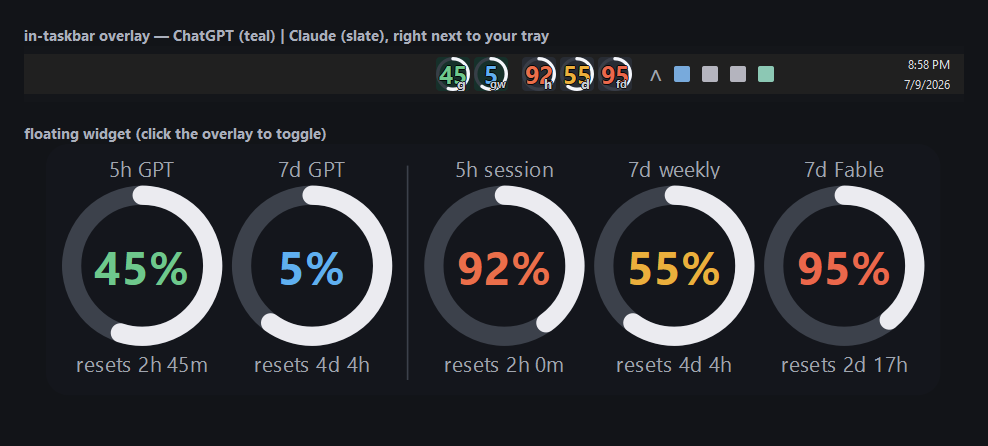
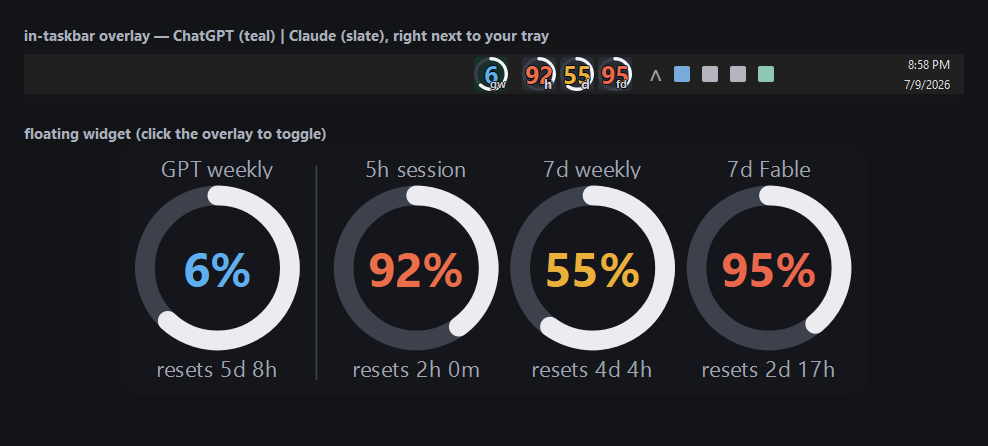
Live ChatGPT usage via free Codex endpoint; drop the GPT 5-hour gauge
Freshness fix: the GPT gauge was only as current as the last Codex run,
so it went stale (or 0%) when using the ChatGPT app. Now poll
GET /backend-api/codex/usage with the token from ~/.codex/auth.json — it
returns the plan's weekly usage as JSON with no completion generated, so
it's live every cycle at zero token cost (a "hello" probe would cost
quota and inflate the very number we measure). Session-log tailing stays
as an offline fallback; reading is cached for restarts.

ChatGPT plans now expose only a weekly cap (primary_window = 604800s,
secondary_window null), so the 5-hour GPT gauge is removed — five tiles
become four (GPT weekly | Claude 5h, 7d, Fable). Hero + timelapse
regenerated; README data-source table and explanation updated.

Changed region(s): [[0.0607, 0.3498, 0.9413, 0.8453], [0.4251, 0.1166, 0.5162, 0.204]]

diff --git a/usagedashboard.py b/usagedashboard.py
@@ -2,12 +2,12 @@
 Always-on Claude Code usage dashboard.
 
 Two surfaces, same visual language:
-  - Five taskbar tiles — OpenAI/ChatGPT (5h, weekly, read from local
-    Codex CLI session logs) then Claude (5h session, 7d weekly, 7d Fable) —
-    with the % in the centre coloured by an urgency model
-    (pct + time_remaining% − 100) and a white perimeter ring that drains
-    as the reset window elapses. Providers are demarcated by tile base
-    colour (slate vs teal), marker letters, and a wider gap.
+  - Four taskbar tiles — OpenAI/ChatGPT (weekly, from the free Codex usage
+    endpoint) then Claude (5h session, 7d weekly, 7d Fable) — with the % in
+    the centre coloured by an urgency model (pct + time_remaining% − 100)
+    and a white perimeter ring that drains as the reset window elapses.
+    Providers are demarcated by tile base colour (slate vs teal), marker
+    letters, and a wider gap.
   - Frameless transparent always-on-top widget mirroring the same ring
     behaviour at a larger size, with reset countdowns and labels.
 
@@ -88,7 +88,7 @@ RED   = QColor(235,  80,  80)   # will exhaust before the window resets
 # Provider demarcation: gauges [:GROUP_SPLIT] are OpenAI, the rest Claude.
 # OpenAI tiles get a teal-dark base (vs Claude's neutral slate) and both
 # surfaces put a wider gap / divider line between the two groups.
-GROUP_SPLIT = 2
+GROUP_SPLIT = 1
 CLAUDE_TILE_BASE = QColor(40, 44, 52)
 OPENAI_TILE_BASE = QColor(22, 48, 42)
 
@@ -307,7 +307,115 @@ def fetch_usage_via_headers(token: str) -> tuple[dict | None, int | None]:
         return None, None
 
 
-CODEX_SESSIONS_DIR = Path.home() / ".codex" / "sessions"
+CODEX_HOME = Path.home() / ".codex"
+CODEX_SESSIONS_DIR = CODEX_HOME / "sessions"
+CODEX_AUTH_PATH = CODEX_HOME / "auth.json"
+CODEX_USAGE_URL = "https://chatgpt.com/backend-api/codex/usage"
+WEEKLY_WINDOW_SECONDS = 7 * 86400
+
+
+def _read_codex_auth() -> tuple[str, str] | None:
+    """(access_token, account_id) from the Codex CLI auth file, or None.
+
+    Codex keeps this token fresh (~10-day lifetime, rotated on use), so we
+    just re-read it each poll rather than running our own refresh.
+    """
+    try:
+        data = json.loads(CODEX_AUTH_PATH.read_text(encoding="utf-8"))
+        tokens = data["tokens"]
+        token = tokens["access_token"]
+        return token, (tokens.get("account_id") or "")
+    except Exception:
+        return None
+
+
+def _pick_weekly_window(windows: list[dict]) -> dict | None:
+    """The weekly meter = the window with the largest limit_window_seconds.
+
+    ChatGPT plans now expose only a weekly cap (primary_window, 604800 s;
+    the old 5-hour secondary is gone), but picking by window length keeps
+    this correct if a shorter window ever reappears.
+    """
+    best = None
+    for w in windows:
+        secs = w.get("limit_window_seconds") or 0
+        if best is None or secs > (best.get("limit_window_seconds") or 0):
+            best = w
+    return best
+
+
+def _window_reading(w: dict) -> tuple[float, str | None, int]:
+    """(used_percent, reset_iso, window_seconds) from a usage window dict."""
+    reset_at = w.get("reset_at")
+    iso = (datetime.fromtimestamp(reset_at, timezone.utc).isoformat()
+           if reset_at else None)
+    win_s = int(w.get("limit_window_seconds") or WEEKLY_WINDOW_SECONDS)
+    return float(w["used_percent"]), iso, win_s
+
+
+def fetch_openai_weekly_live() -> tuple[float, str | None, int] | None:
+    """Live ChatGPT weekly usage via the free Codex usage endpoint.
+
+    GET /backend-api/codex/usage returns the plan rate limit as plain JSON
+    with NO completion generated — zero token cost, unlike a chat probe.
+    Uses the ChatGPT token from auth.json. Returns
+    (used_percent, reset_iso, window_seconds), or None on any failure
+    (offline, token expired, throttled) so the caller can fall back.
+    """
+    auth = _read_codex_auth()
+    if not auth:
+        return None
+    token, account_id = auth
+    try:
+        r = requests.get(
+            CODEX_USAGE_URL,
+            headers={
+                "Authorization": f"Bearer {token}",
+                "chatgpt-account-id": account_id,
+                "originator": "codex_cli_rs",
+                "User-Agent": USER_AGENT,
+            },
+            timeout=10,
+        )
+        if r.status_code != 200:
+            return None
+        rl = (r.json() or {}).get("rate_limit") or {}
+    except Exception:
+        return None
+    windows = [
+        w for key in ("primary_window", "secondary_window")
+        if isinstance((w := rl.get(key)), dict)
+        and w.get("used_percent") is not None
+    ]
+    weekly = _pick_weekly_window(windows)
+    return _window_reading(weekly) if weekly else None
+
+
+def fetch_openai_weekly_from_logs() -> tuple[float, str | None, int] | None:
+    """Offline fallback: derive weekly usage from Codex session logs."""
+    rl = fetch_openai_usage()
+    if not rl:
+        return None
+    windows = []
+    for key in ("primary", "secondary"):
+        b = rl.get(key)
+        if isinstance(b, dict) and b.get("used_percent") is not None:
+            windows.append({
+                "used_percent": b["used_percent"],
+                "limit_window_seconds": (b.get("window_minutes") or 0) * 60,
+                "reset_at": b.get("resets_at"),
+            })
+    weekly = _pick_weekly_window(windows)
+    return _window_reading(weekly) if weekly else None
+
+
+def openai_weekly() -> tuple[float, str | None, int] | None:
+    """(used_percent, reset_iso, window_seconds) for ChatGPT weekly usage.
+
+    Prefers the live endpoint (fresh, free); falls back to the local
+    session logs (only as recent as your last Codex run) when offline.
+    """
+    return fetch_openai_weekly_live() or fetch_openai_weekly_from_logs()
 
 
 def _pick_plan_limit(candidates: list[dict]) -> dict | None:
@@ -510,17 +618,17 @@ class Widget(QWidget):
         # Don't steal focus when shown — otherwise the taskbar overlay gets
         # demoted in the topmost band and the Windows taskbar paints over it.
         self.setAttribute(Qt.WA_ShowWithoutActivating, True)
-        # Min width holds each of the five gauges at ~90px.
-        self.setMinimumSize(QSize(470, 130))
+        # Min width holds each of the four gauges at ~90px.
+        self.setMinimumSize(QSize(390, 130))
 
         self.gauge_5h = RingGauge("5h session")
         self.gauge_7d = RingGauge("7d weekly")
         self.gauge_fable = RingGauge("7d Fable")
-        self.gauge_gpt5h = RingGauge("5h GPT")
-        self.gauge_gptw = RingGauge("7d GPT")
+        self.gauge_gptw = RingGauge("GPT weekly")
         # Paint/taskbar order with per-tile marker; [:GROUP_SPLIT] = OpenAI.
+        # ChatGPT plans expose only a weekly cap now (no 5-hour window).
         self._all_gauges: list[tuple[RingGauge, str]] = [
-            (self.gauge_gpt5h, "g"), (self.gauge_gptw, "gw"),
+            (self.gauge_gptw, "gw"),
             (self.gauge_5h, "h"), (self.gauge_7d, "d"),
             (self.gauge_fable, "fd"),
         ]
@@ -542,9 +650,18 @@ class Widget(QWidget):
             if trf:  # non-zero/non-None => window still open
                 self.gauge_fable.update(cached_fpct, cached_freset, trf)
 
+        # Seed ChatGPT weekly the same way, so a restart shows a value before
+        # the first poll returns.
+        cached_gpct = state.get("gptw_pct")
+        cached_greset = state.get("gptw_resets_at")
+        if cached_gpct is not None and cached_greset:
+            trg = time_remaining_pct(cached_greset, WEEKLY_WINDOW_SECONDS)
+            if trg:
+                self.gauge_gptw.update(cached_gpct, cached_greset, trg)
+
         x = state.get("x")
         y = state.get("y")
-        self.resize(state.get("w", 520), state.get("h", 150))
+        self.resize(state.get("w", 450), state.get("h", 150))
         self._opacity = state.get("opacity", 0.92)
         self.setWindowOpacity(self._opacity)
         if x is not None and y is not None and self._point_on_some_screen(x, y):
@@ -602,8 +719,8 @@ class Widget(QWidget):
         p.setBrush(QBrush(BG_COLOR))
         p.drawRoundedRect(bg, 14, 14)
 
-        # Layout: five gauges side by side (OpenAI pair | Claude trio) with
-        # label area above and a divider line between the provider groups.
+        # Layout: gauges side by side (OpenAI | Claude) with the label area
+        # above and a divider line between the provider groups.
         inner = bg.adjusted(10, 22, -10, -10)
         gauges = [g for g, _ in self._all_gauges]
         gap, group_gap = 6, 14
@@ -633,35 +750,19 @@ class Widget(QWidget):
 
     # --- polling -----------------------------------------------------------
     def _update_openai(self) -> None:
-        """Refresh the two GPT gauges from the local Codex session logs.
+        """Refresh the ChatGPT weekly gauge.
 
-        Free and offline, so it runs every poll regardless of how the
-        Anthropic endpoints are doing.
+        Prefers the free live usage endpoint; falls back to local Codex
+        logs. Free and independent of the Anthropic endpoints, so it runs
+        every poll. Caches the reading so it survives restarts.
         """
-        rl = fetch_openai_usage()
-        if not rl:
+        reading = openai_weekly()
+        if reading is None:
             return
-        now = time.time()
-        for gauge, block in ((self.gauge_gpt5h, rl.get("primary")),
-                             (self.gauge_gptw, rl.get("secondary"))):
-            if not isinstance(block, dict):
-                continue
-            resets_epoch = block.get("resets_at")
-            window_s = (block.get("window_minutes") or 0) * 60
-            if resets_epoch and resets_epoch < now:
-                # The snapshot predates a window reset and Codex hasn't run
-                # since, so nothing has been used in the current window.
-                # (ChatGPT-app usage in the meantime is invisible to us.)
-                gauge.update(0.0, None, None)
-                continue
-            iso = None
-            if resets_epoch:
-                iso = datetime.fromtimestamp(
-                    resets_epoch, timezone.utc).isoformat()
-            gauge.update(
-                block.get("used_percent"), iso,
-                time_remaining_pct(iso, window_s) if window_s else None,
-            )
+        pct, iso, window_s = reading
+        self.gauge_gptw.update(
+            pct, iso, time_remaining_pct(iso, window_s) if window_s else None)
+        self._persist()
 
     def refresh_now(self, manual: bool = False) -> None:
         self._update_openai()
@@ -734,11 +835,9 @@ class Widget(QWidget):
                 tip.append(f"7-day weekly: {pct7:.0f}% — resets in {reset7}")
             if pctf is not None:
                 tip.append(f"7-day Fable: {pctf:.0f}% — resets in {resetf}")
-            for gauge, name in ((self.gauge_gpt5h, "GPT 5-hour"),
-                                (self.gauge_gptw, "GPT weekly")):
-                if gauge.pct is not None:
-                    tip.append(f"{name}: {gauge.pct:.0f}% — resets in "
-                               f"{gauge.reset_label}")
+            if self.gauge_gptw.pct is not None:
+                tip.append(f"GPT weekly: {self.gauge_gptw.pct:.0f}% — resets "
+                           f"in {self.gauge_gptw.reset_label}")
             self.taskbar.setToolTip("\n".join(tip) or "loading…")
         if self.tray_5h is not None:
             self.tray_5h.setIcon(make_tray_icon(pct5, tr5, marker="h"))
@@ -772,11 +871,9 @@ class Widget(QWidget):
         if fable is not None and fable.get("percent") is not None:
             lines.append(f"fable (7d): {fable['percent']}%  "
                          f"resets {fmt_reset(fable.get('resets_at'))}")
-        for gauge, name in ((self.gauge_gpt5h, "gpt (5h)"),
-                            (self.gauge_gptw, "gpt (7d)")):
-            if gauge.pct is not None:
-                lines.append(f"{name}: {gauge.pct:.1f}%  "
-                             f"resets {gauge.reset_label}")
+        if self.gauge_gptw.pct is not None:
+            lines.append(f"gpt (7d): {self.gauge_gptw.pct:.1f}%  "
+                         f"resets {self.gauge_gptw.reset_label}")
         extra = data.get("extra_usage")
         if isinstance(extra, dict) and extra.get("is_enabled"):
             lines.append(f"extra: {extra.get('utilization')}% of "
@@ -807,7 +904,7 @@ class Widget(QWidget):
         # Scroll to resize
         delta = e.angleDelta().y() / 120
         scale = 1.0 + (0.07 * delta)
-        new_w = max(180, min(520, int(self.width() * scale)))
+        new_w = max(390, min(640, int(self.width() * scale)))
         new_h = max(110, min(320, int(self.height() * scale)))
         self.resize(new_w, new_h)
         self._persist()
@@ -948,6 +1045,9 @@ class Widget(QWidget):
         if self.gauge_fable.pct is not None:
             state["fable_pct"] = self.gauge_fable.pct
             state["fable_resets_at"] = self.gauge_fable.reset_iso
+        if self.gauge_gptw.pct is not None:
+            state["gptw_pct"] = self.gauge_gptw.pct
+            state["gptw_resets_at"] = self.gauge_gptw.reset_iso
         save_state(state)
 
 
@@ -1111,7 +1211,7 @@ class TaskbarWidget(QWidget):
         self._on_click = on_click
         # (pct, time_rem_pct, marker) per tile; [:GROUP_SPLIT] = OpenAI
         self._entries: list[tuple[float | None, float | None, str]] = [
-            (None, None, m) for m in ("g", "gw", "h", "d", "fd")
+            (None, None, m) for m in ("gw", "h", "d", "fd")
         ]
         self._icon_size = 28
         self._gap = 4

diff --git a/docs/render.py b/docs/render.py
@@ -31,16 +31,16 @@ from usagedashboard import (
 # Shared palette (mirrors usagedashboard.py)
 # ---------------------------------------------------------------------------
 
-WIDGET_W, WIDGET_H = 560, 158
+WIDGET_W, WIDGET_H = 470, 158
 BG = QColor(20, 22, 28, 255)
 TRACK = QColor(60, 65, 75, 255)
 TEXT = QColor(235, 235, 240)
 SUB = QColor(160, 165, 175)
 
-# (label, marker) in display order — OpenAI pair first, Claude trio after,
-# same as the live app.
+# (label, marker) in display order — OpenAI first, Claude trio after,
+# same as the live app. ChatGPT plans expose only a weekly cap now.
 GAUGES = [
-    ("5h GPT", "g"), ("7d GPT", "gw"),
+    ("GPT weekly", "gw"),
     ("5h session", "h"), ("7d weekly", "d"), ("7d Fable", "fd"),
 ]
 
@@ -168,7 +168,8 @@ def render_taskbar_mockup(values: list[tuple[float, float]],
     icon = bar_h - 6
     gap, group_gap = 4, 10
     tray_x = width - 320
-    row_w = icon * 5 + gap * 4 + group_gap
+    n = len(GAUGES)
+    row_w = icon * n + gap * (n - 1) + group_gap
     _draw_tile_row(p, values, tray_x - row_w - 12, bar_y + 3, icon,
                    gap, group_gap)
 
@@ -201,10 +202,9 @@ def render_taskbar_mockup(values: list[tuple[float, float]],
 # ---------------------------------------------------------------------------
 
 # One value set for the whole hero so both surfaces agree. Chosen to show
-# the full urgency gradient: green / blue / red / amber / red.
+# the full urgency gradient: blue / red / amber / red.
 HERO = [
-    (45.0, 55.0, "2h 45m"),   # 5h GPT      — on pace (green)
-    ( 5.0, 60.0, "4d 4h"),    # 7d GPT      — under-utilizing (blue)
+    ( 6.0, 62.0, "5d 8h"),    # GPT weekly  — under-utilizing (blue)
     (92.0, 40.0, "2h 0m"),    # 5h session  — will exhaust (red)
     (55.0, 60.0, "4d 4h"),    # 7d weekly   — burning fast (amber)
     (95.0, 39.0, "2d 17h"),   # 7d Fable    — pinned (red)
@@ -264,20 +264,18 @@ def render_timelapse_frames(n_frames: int = 64) -> list[QPixmap]:
     frames = []
     for f in range(n_frames):
         t = f / n_frames
-        g5, g5tr = _session_cycle(t, 0.15, 88.0)
         c5, c5tr = _session_cycle(t, 0.55, 96.0)
-        gw = 4.0 + 9.0 * t          # GPT weekly creeps 4 → 13
+        gw = 4.0 + 32.0 * t         # GPT weekly creeps 4 → 36
         cw = 20.0 + 38.0 * t        # Claude weekly 20 → 58
         fb = 40.0 + 56.0 * t        # Fable sprints 40 → 96 (green → red)
         wk_tr = 62.0 - 14.0 * t     # weekly windows drain a little
         values = [
-            (g5, g5tr, _fmt_reset(g5tr, 5)),
             (gw, wk_tr, _fmt_reset(wk_tr, 168)),
             (c5, c5tr, _fmt_reset(c5tr, 5)),
             (cw, wk_tr, _fmt_reset(wk_tr, 168)),
             (fb, wk_tr, _fmt_reset(wk_tr, 168)),
         ]
-        frames.append(render_widget(values, scale=1.25))
+        frames.append(render_widget(values, scale=1.3))
     return frames
 
 

diff --git a/README.md b/README.md
@@ -2,7 +2,7 @@
 
 **Every AI usage limit you pay for, always on screen.**
 
-Five live meters embedded in the Windows taskbar — ChatGPT's 5-hour and weekly limits on teal tiles, Claude's 5-hour session, 7-day weekly, and 7-day Fable limits on slate — each one a ring that drains with time and a percentage colored by whether you're *actually* going to run out.
+Four live meters embedded in the Windows taskbar — ChatGPT's weekly limit on a teal tile, Claude's 5-hour session, 7-day weekly, and 7-day Fable limits on slate — each one a ring that drains with time and a percentage colored by whether you're *actually* going to run out.
 
 ![platform](https://img.shields.io/badge/platform-Windows%2010%2F11-0078D6)
 ![python](https://img.shields.io/badge/python-3.11%2B-3776AB?logo=python&logoColor=white)
@@ -18,8 +18,7 @@ A day of usage, timelapsed — session windows fill and reset, weekly meters cre
 
 | tile | meter | source |
 |---|---|---|
-| `g` | ChatGPT 5-hour limit | Codex CLI session logs (local) |
-| `gw` | ChatGPT weekly limit | Codex CLI session logs (local) |
+| `gw` | ChatGPT weekly limit | Codex usage endpoint (live, free) |
 | `h` | Claude 5-hour session | Anthropic OAuth usage endpoint |
 | `d` | Claude 7-day weekly (all models) | Anthropic OAuth usage endpoint |
 | `fd` | Claude 7-day Fable | OAuth endpoint `limits[]` array |
@@ -53,7 +52,7 @@ Continuous gradient between anchors. Live curve over the full `(time_remaining, 
 
 **Fable** — the per-model weekly cap only exists in the OAuth endpoint's `limits[]` array (the header-probe fallback can't see it), so the last reading is cached in the state file and survives throttle windows and restarts.
 
-**ChatGPT** — no polling at all. The Codex CLI embeds a plan-level `rate_limits` block (primary = 5 h, secondary = weekly — the same meters ChatGPT Settings → Usage shows) in every session log under `~/.codex/sessions/`. The dashboard tails the newest log each cycle: free, offline, unthrottleable. Freshness equals your last Codex activity; ChatGPT-app usage between Codex runs shows up on the next run.
+**ChatGPT** — polls `GET https://chatgpt.com/backend-api/codex/usage` with the ChatGPT token from `~/.codex/auth.json` (kept fresh by the Codex CLI). It returns the plan's weekly usage as plain JSON with **no completion generated — zero token cost**, so it's live every cycle regardless of whether Codex is running. (ChatGPT plans now expose only a weekly cap; the old 5-hour limit is gone.) Falls back to tailing the local Codex session logs when offline, and caches the last reading so it survives restarts.
 
 **Taskbar embed** — the overlay is a `WS_CHILD` window `SetParent`'d into `Shell_TrayWnd`, so the shell can't paint over it. It survives explorer restarts, lock/unlock, and sleep via session-change notifications, and slides left of any small topmost pill (dictation bubbles, recorders) that docks over its spot near the tray.
 